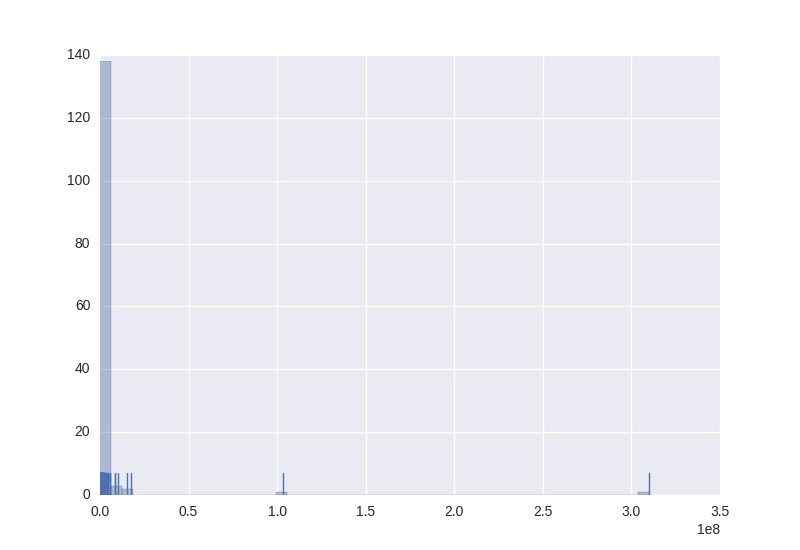
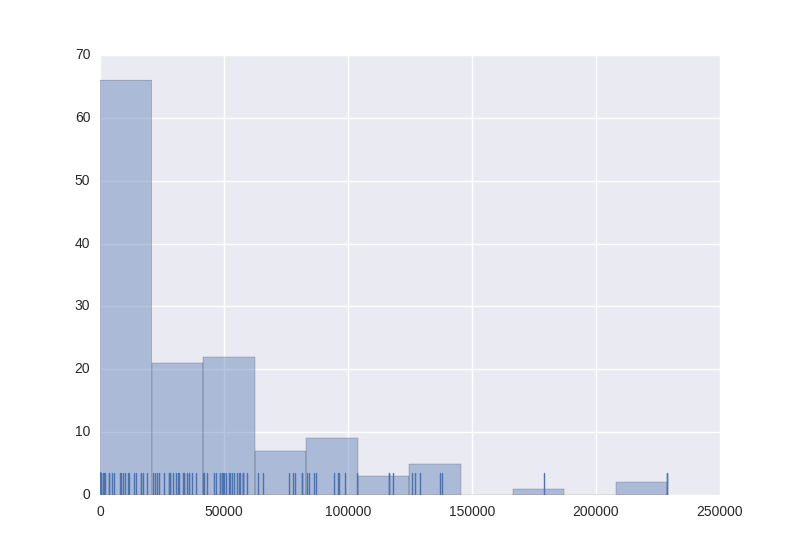
replace outlier detect algorithm

diff --git a/poi_id.py b/poi_id.py
@@ -16,15 +16,15 @@ from tester import dump_classifier_and_data
 ### The first feature must be "poi".
 # You will need to use more features
 
-features_list = ['poi', 'salary', 'deferral_payments', 'total_payments', 'loan_advances', 'bonus', 'restricted_stock_deferred', 'deferred_income', 'total_stock_value', 'expenses', 'exercised_stock_options', 'other', 'long_term_incentive', 'restricted_stock', 'director_fees',
-'to_messages', 'from_poi_to_this_person', 'from_messages', 'from_this_person_to_poi', 'shared_receipt_with_poi']
+# features_list = ['poi', 'salary', 'deferral_payments', 'total_payments', 'loan_advances', 'bonus', 'restricted_stock_deferred', 'deferred_income', 'total_stock_value', 'expenses', 'exercised_stock_options', 'other', 'long_term_incentive', 'restricted_stock', 'director_fees',
+# 'to_messages', 'from_poi_to_this_person', 'from_messages', 'from_this_person_to_poi', 'shared_receipt_with_poi']
 
-### After explore all the features, remove loan_advances,
+## After explore all the features, remove loan_advances,
 # restricted_stock_deferred, deferred_income, director_fees
-# def hist_and_save_pic(data, name):
-#     sns_plot = sns.distplot(data,  kde=False, rug=True)
-#     sns.plt.show()
-#     sns_plot.get_figure().savefig(name+".png")
+def hist_and_save_pic(data, name):
+    sns_plot = sns.distplot(data,  kde=False, rug=True)
+    sns.plt.show()
+    sns_plot.get_figure().savefig(name+".png")
 #
 
 # # salary, a few outlier
@@ -68,12 +68,71 @@ features_list = ['poi', 'salary', 'deferral_payments', 'total_payments', 'loan_a
 # print sum(data[:,19] == 0)
 
 
-
+### data explore
+# print len(data)
+# # 15 zeros
+# # 50
+# print 'salary'
+# print sum(data[:,1] == 0)*1.0/len(data)
+# # 106
+# print 'deferral_payments'
+# print sum(data[:,2] == 0)*1.0/len(data)
+# # 20
+# print 'total_payments'
+# print sum(data[:,3] == 0)*1.0/len(data)
+# # 141
+# print 'loan_advances'
+# print sum(data[:,4] == 0)*1.0/len(data)
+# # 63
+# print 'bonus'
+# print sum(data[:,5] == 0)*1.0/len(data)
+# # 127
+# print 'restricted_stock_deferred'
+# print sum(data[:,6] == 0)*1.0/len(data)
+# # 96
+# print 'deferred_income'
+# print sum(data[:,7] == 0)*1.0/len(data)
+# # 19
+# print 'total_stock_value'
+# print sum(data[:,8] == 0)*1.0/len(data)
+# # 50
+# print 'expenses'
+# print sum(data[:,9] == 0)*1.0/len(data)
+# # 43
+# print 'exercised_stock_options'
+# print sum(data[:,10] == 0)*1.0/len(data)
+# # 52
+# print 'other'
+# print sum(data[:,11] == 0)*1.0/len(data)
+# # 79
+# print 'long_term_incentive'
+# print sum(data[:,12] == 0)*1.0/len(data)
+# # 35
+# print 'restricted_stock'
+# print sum(data[:,13] == 0)*1.0/len(data)
+# # 128
+# print 'director_fees'
+# print sum(data[:,14] == 0)*1.0/len(data)
+# # 59
+# print 'to_messages'
+# print sum(data[:,15] == 0)*1.0/len(data)
+# # 71
+# print 'from_poi_to_this_person'
+# print sum(data[:,16] == 0)*1.0/len(data)
+# # 59
+# print 'from_messages'
+# print sum(data[:,17] == 0)*1.0/len(data)
+# # 79
+# print 'from_this_person_to_poi'
+# print sum(data[:,18] == 0)*1.0/len(data)
+# # 59
+# print 'shared_receipt_with_poi'
+# print sum(data[:,19] == 0)*1.0/len(data)
 
 # features_list = ['poi', 'total_payments','restricted_stock_deferred', 'expenses', 'shared_receipt_with_poi']
 
 
-# features_list = ['poi', 'total_payments','restricted_stock_deferred', 'expenses', 'shared_receipt_with_poi']
+features_list = ['poi', 'total_payments','restricted_stock_deferred', 'expenses', 'shared_receipt_with_poi']
  # add whether_email_to_poi
 # my_features_list = ['poi', 'total_payments', 'loan_advances', 'restricted_stock_deferred', 'expenses', 'whether_email_to_poi']
 
@@ -82,6 +141,7 @@ features_list = ['poi', 'salary', 'deferral_payments', 'total_payments', 'loan_a
 with open("final_project_dataset.pkl", "r") as data_file:
     data_dict = pickle.load(data_file)
 my_dataset = data_dict
+# print len(my_dataset)
 
 ### Task 2: Remove outliers
 ### Task 3: Create new feature(s)
@@ -97,75 +157,39 @@ my_dataset = data_dict
 # print my_dataset
 ### Extract features and labels from dataset for local testing
 data = featureFormat(my_dataset, features_list, sort_keys = True)
-
-### data explore
 # print len(data)
-# # 15 zeros
-# 50
-print 'salary'
-print sum(data[:,1] == 0)*1.0/len(data)
-# 106
-print 'deferral_payments'
-print sum(data[:,2] == 0)*1.0/len(data)
-# 20
-print 'total_payments'
-print sum(data[:,3] == 0)*1.0/len(data)
-# 141
-print 'loan_advances'
-print sum(data[:,4] == 0)*1.0/len(data)
-# 63
-print 'bonus'
-print sum(data[:,5] == 0)*1.0/len(data)
-# 127
-print 'restricted_stock_deferred'
-print sum(data[:,6] == 0)*1.0/len(data)
-# 96
-print 'deferred_income'
-print sum(data[:,7] == 0)*1.0/len(data)
-# 19
-print 'total_stock_value'
-print sum(data[:,8] == 0)*1.0/len(data)
-# 50
-print 'expenses'
-print sum(data[:,9] == 0)*1.0/len(data)
-# 43
-print 'exercised_stock_options'
-print sum(data[:,10] == 0)*1.0/len(data)
-# 52
-print 'other'
-print sum(data[:,11] == 0)*1.0/len(data)
-# 79
-print 'long_term_incentive'
-print sum(data[:,12] == 0)*1.0/len(data)
-# 35
-print 'restricted_stock'
-print sum(data[:,13] == 0)*1.0/len(data)
-# 128
-print 'director_fees'
-print sum(data[:,14] == 0)*1.0/len(data)
-# 59
-print 'to_messages'
-print sum(data[:,15] == 0)*1.0/len(data)
-# 71
-print 'from_poi_to_this_person'
-print sum(data[:,16] == 0)*1.0/len(data)
-# 59
-print 'from_messages'
-print sum(data[:,17] == 0)*1.0/len(data)
-# 79
-print 'from_this_person_to_poi'
-print sum(data[:,18] == 0)*1.0/len(data)
-# 59
-print 'shared_receipt_with_poi'
-print sum(data[:,19] == 0)*1.0/len(data)
-
-# print np.corrcoef(data[:,4],data[:,6])
-
-
-
-
 ### remove outlier
 labels, features = targetFeatureSplit(data)
+
+### remove outiliers
+df = pd.DataFrame.from_dict(data_dict, orient='index', dtype=np.float)
+# print df.describe().loc[:,['total_payments','restricted_stock_deferred','expenses', 'shared_receipt_with_poi']]
+# print data[:,2].max()
+def max_index(data, column):
+    outlier_idx = np.where(data[:,column] == data[:,column].max())
+    return outlier_idx
+
+def min_index(data, column):
+    outlier_idx = np.where(data[:,column] == data[:,column].min())
+    return outlier_idx
+
+outlier_idx = 0
+outlier_idx = max_index(data, 1)
+data = np.delete(data, outlier_idx, 0)
+outlier_idx = max_index(data, 1)
+data = np.delete(data, outlier_idx, 0)
+
+outlier_idx = max_index(data, 2)
+data = np.delete(data, outlier_idx, 0)
+outlier_idx = min_index(data, 2)
+data = np.delete(data, outlier_idx, 0)
+
+# hist_and_save_pic(data[:,1], "salary")
+# hist_and_save_pic(data[:,2], "restricted_stock_deferred")
+# hist_and_save_pic(data[:,3], "expenses")
+# hist_and_save_pic(data[:,4], "shared_receipt_with_poi")
+# print len(data)
+
 
 ### create new feature, add whether_shared_receipt_with_poi
 

diff --git a/README.md b/README.md
@@ -48,6 +48,13 @@ There are histograms about each feature in folder, the zero percent is calculate
 | from_this_person_to_poi | 54%     |
 | shared_receipt_with_poi | 41%      |
 
+#### outlier remove
+
+You may see the total_payments.png, expenses.png, restricted_stock_deferred.png
+and shared_receipt_with_poi.png file in folder, they are the distribution for correspoding
+feature, I remove all the outlier by hand, then check the distribution until it looks good.
+
+
 ### 3. Features and Scaling
 
 #### Features
